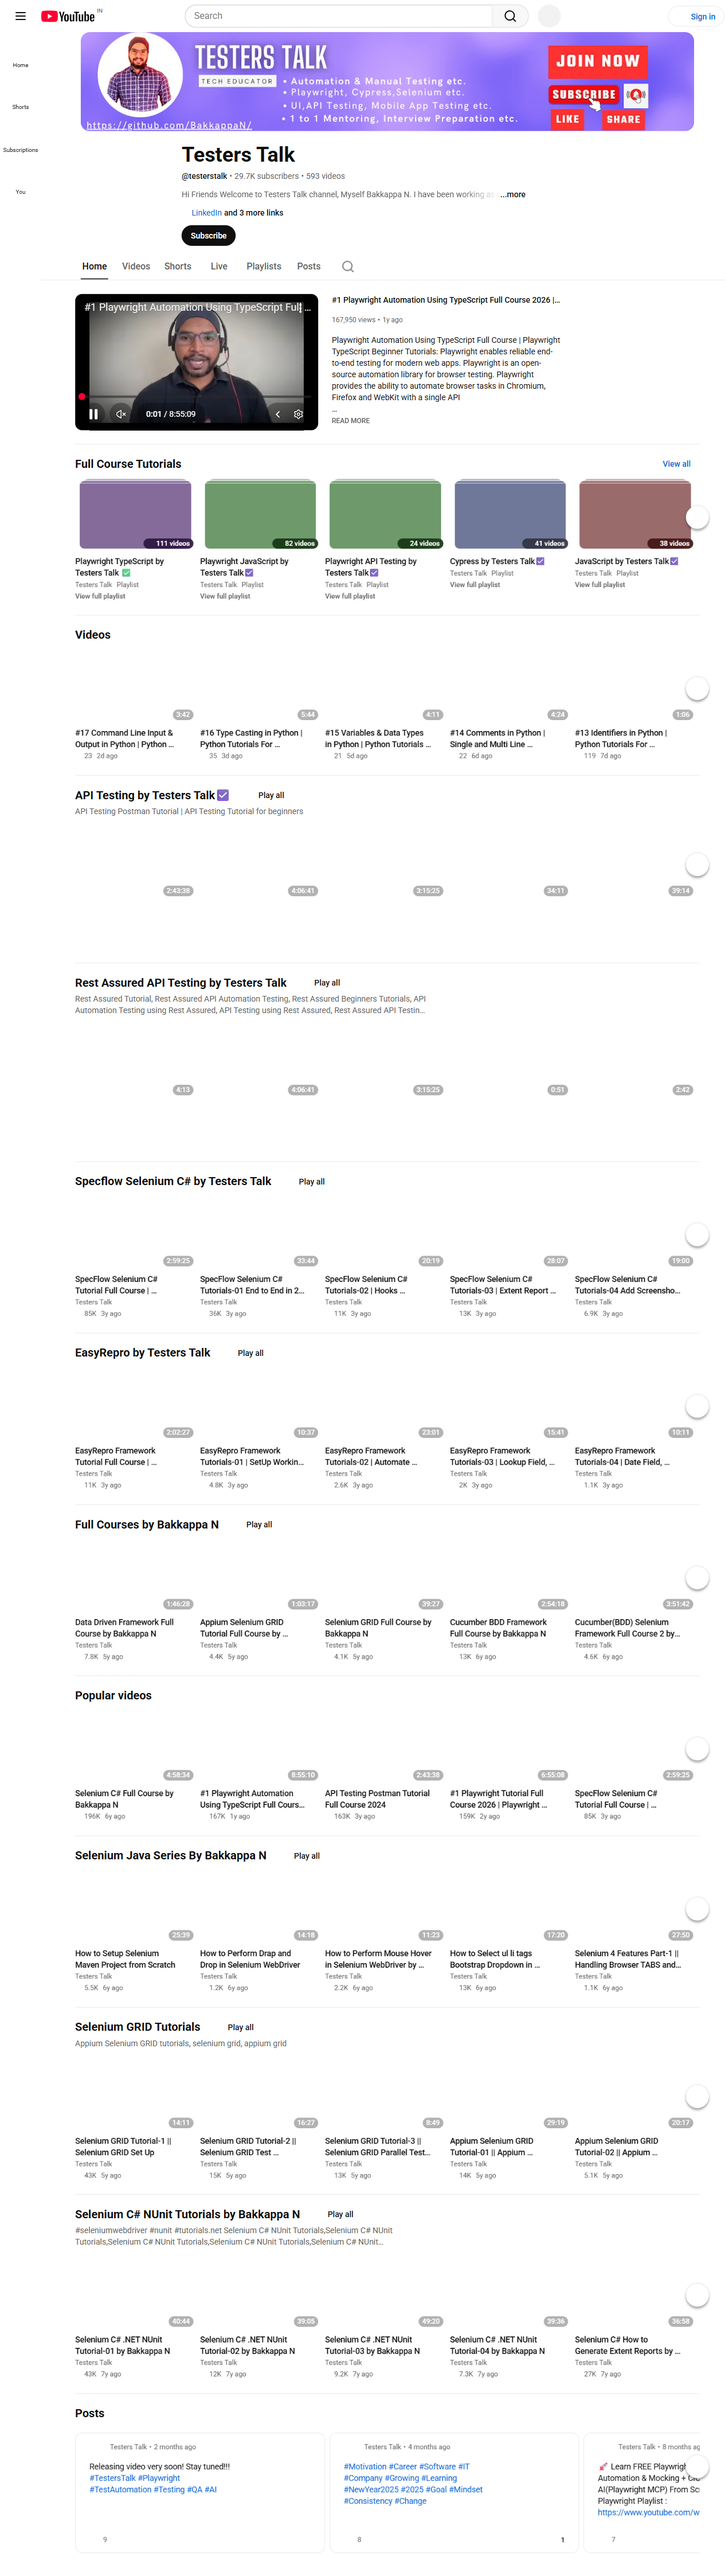
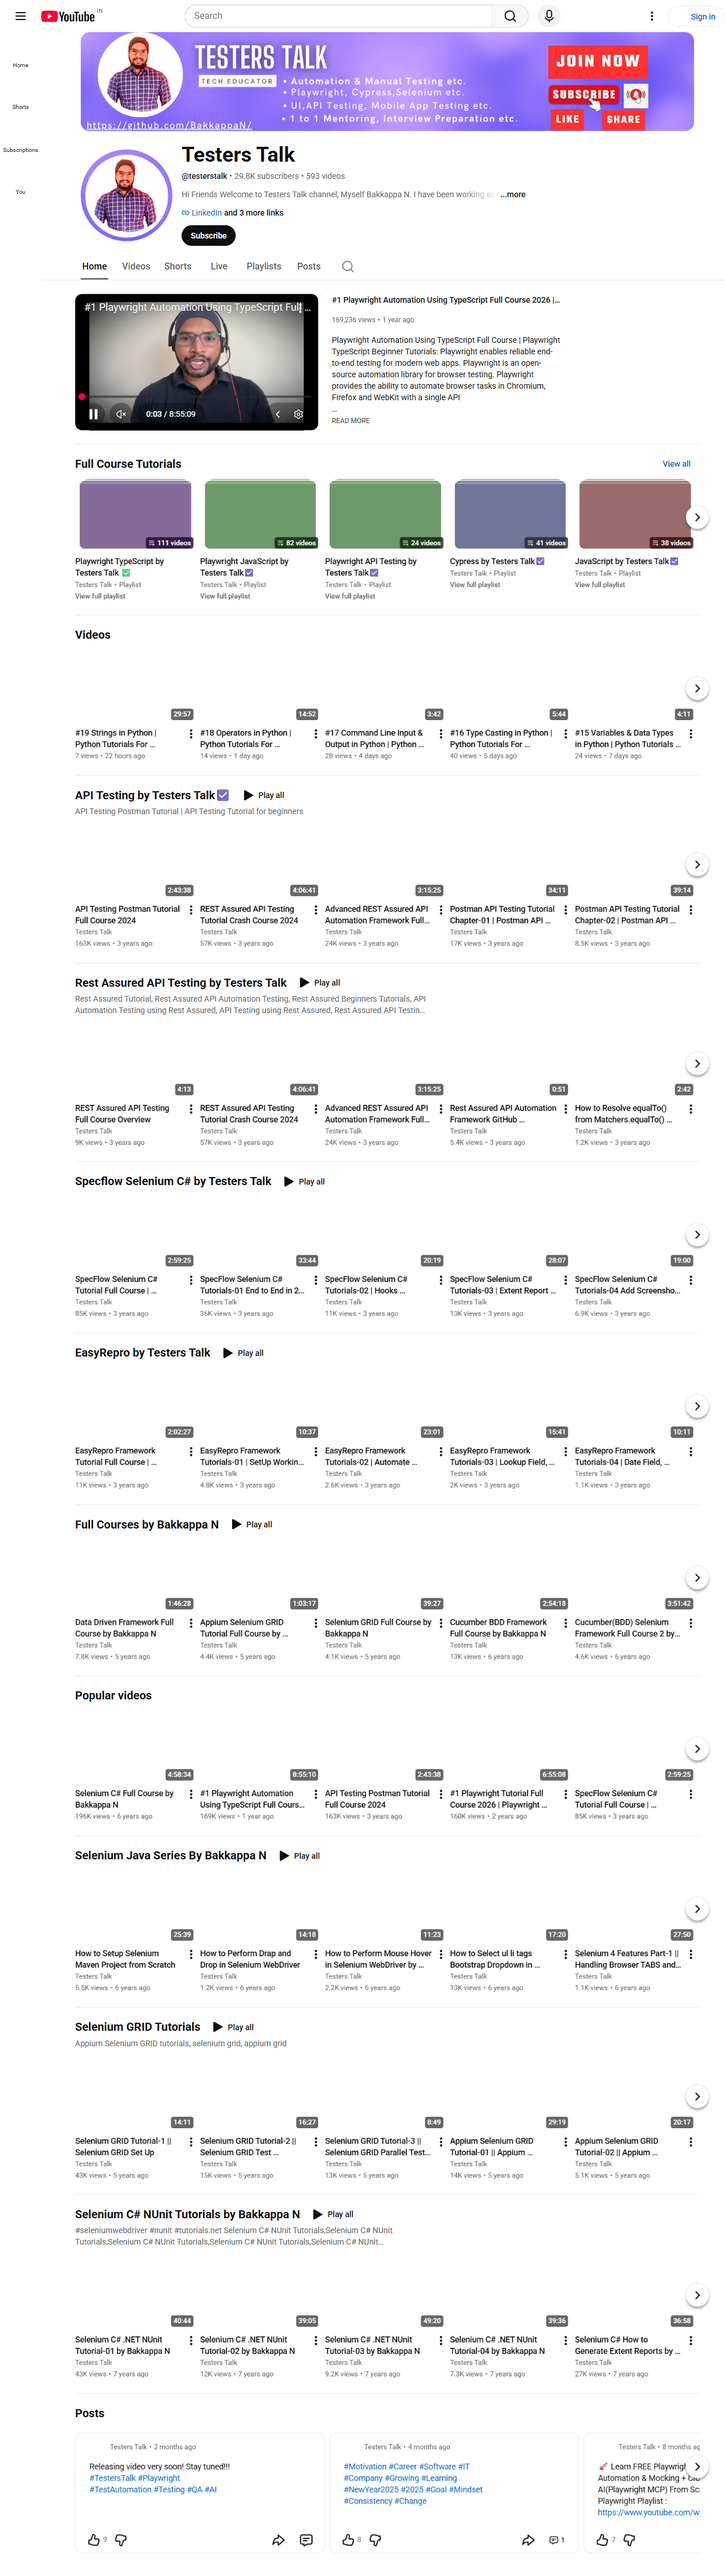
Annotations

diff --git a/tests/Chapter03/01_Annotations_Test.spec.ts b/tests/Chapter03/01_Annotations_Test.spec.ts
@@ -1,0 +1,81 @@
+//import playwright mode
+import { test, expect } from "@playwright/test";
+
+
+test('Test1', async ({ page }) => {
+
+    await test.step('Navigating to URL', async () => {
+        await page.goto('https://github.com/');
+        await page.getByRole('link', { name: 'Sign in' }).click();
+    });
+
+    await test.step('Entering username and password', async () => {
+        await page.getByRole('textbox', { name: 'Username or email address' }).click();
+        await page.getByRole('textbox', { name: 'Username or email address' }).fill('abc');
+        await page.getByRole('textbox', { name: 'Password' }).click();
+        await page.getByRole('textbox', { name: 'Password' }).fill('abc');
+    });
+    await test.step('Clicking Signin Button ', async () => {
+        await page.getByRole('button', { name: 'Sign in', exact: true }).click();
+    });
+    await test.step('Validating error message', async () => {
+        await expect(page.getByRole('alert')).toContainText('Incorrect username or password.');
+    });
+
+
+
+})
+
+//skip test
+test.skip('Test2', async ({ page }) => {
+
+    await test.step('Navigating to URL', async () => {
+        await page.goto('https://github.com/');
+        await page.getByRole('link', { name: 'Sign in' }).click();
+    });
+
+    await test.step('Entering username and password', async () => {
+        await page.getByRole('textbox', { name: 'Username or email address' }).click();
+        await page.getByRole('textbox', { name: 'Username or email address' }).fill('abc');
+        await page.getByRole('textbox', { name: 'Password' }).click();
+        await page.getByRole('textbox', { name: 'Password' }).fill('abc');
+    });
+    await test.step('Clicking Signin Button ', async () => {
+        await page.getByRole('button', { name: 'Sign in', exact: true }).click();
+    });
+    await test.step('Validating error message', async () => {
+        await expect(page.getByRole('alert')).toContainText('Incorrect username or password.');
+    });
+
+
+
+})
+
+
+
+//Only run this test
+test.only('Test3', async ({ page }) => {
+
+    await test.step('Navigating to URL', async () => {
+        await page.goto('https://github.com/');
+        await page.getByRole('link', { name: 'Sign in' }).click();
+    });
+
+    await test.step('Entering username and password', async () => {
+        await page.getByRole('textbox', { name: 'Username or email address' }).click();
+        await page.getByRole('textbox', { name: 'Username or email address' }).fill('abc');
+        await page.getByRole('textbox', { name: 'Password' }).click();
+        await page.getByRole('textbox', { name: 'Password' }).fill('abc');
+    });
+    await test.step('Clicking Signin Button ', async () => {
+        await page.getByRole('button', { name: 'Sign in', exact: true }).click();
+    });
+    await test.step('Validating error message', async () => {
+        await expect(page.getByRole('alert')).toContainText('Incorrect username or password.');
+    });
+
+
+
+
+})
+

diff --git a/tests/Chapter02/09_Assertions_PW_Test.spec.ts b/tests/Chapter02/09_Assertions_PW_Test.spec.ts
@@ -46,8 +46,10 @@ test('Assertions in playwright', async ({ page }) => {
         'https://www.youtube.com/results?search_query=playwright+by+testers+talk'
     );
 
-    await expect(page).toHaveTitle(
-        'playwright by testers talk - YouTube'
+
+    //soft assertion ;eventhough if this step failed, rest will be executed
+    await expect.soft(page).toHaveTitle(
+        'playwright by test talk - YouTube'
     );
 
 

diff --git a/playwright.config.ts b/playwright.config.ts
@@ -33,7 +33,7 @@ export default defineConfig({
 
     testIdAttribute:'data-tab-item',
     /* Collect trace when retrying the failed test. See https://playwright.dev/docs/trace-viewer */
-    trace: 'on-first-retry',
+    trace: 'on',
   },
 
   /* Configure projects for major browsers */
